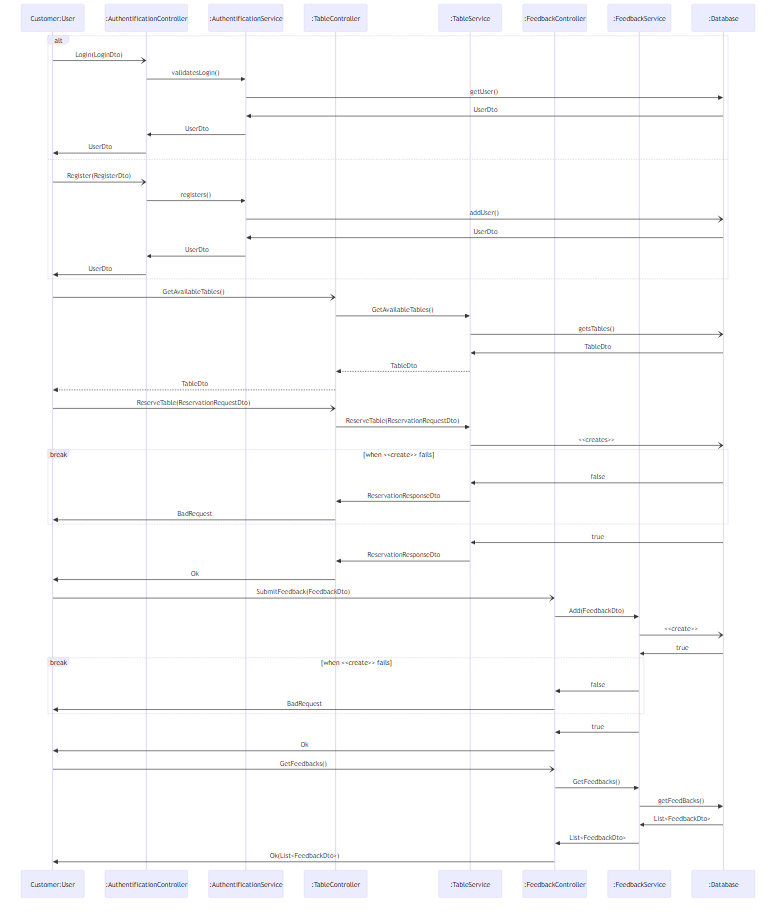
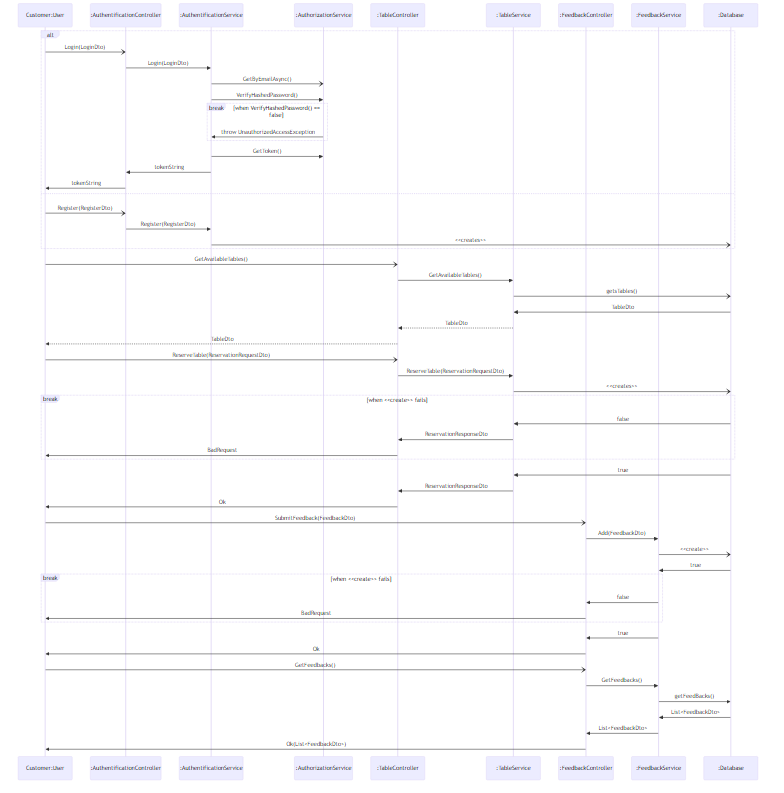
fixed diagram

diff --git a/reserv-plt/sequence_diagram_be.md b/reserv-plt/sequence_diagram_be.md
@@ -1,9 +1,10 @@
 ```mermaid
 
-sequenceDiagram
+    sequenceDiagram
     participant Customer as Customer:User
     participant AuthentificationController as :AuthentificationController
     participant AuthentificationService as :AuthentificationService
+    participant AuthorizationService as :AuthorizationService
     participant TableController as :TableController
     participant TableService as :TableService
     participant FeedbackController as :FeedbackController
@@ -14,22 +15,21 @@ sequenceDiagram
 
     alt
     Customer-)AuthentificationController: Login(LoginDto)
-    AuthentificationController ->> AuthentificationService: validatesLogin() 
-    AuthentificationService ->> Database: getUser()
-
-    Database ->> AuthentificationService: UserDto
-    AuthentificationService ->> AuthentificationController: UserDto
-    AuthentificationController ->> Customer: UserDto
+    AuthentificationController ->> AuthentificationService: Login(LoginDto) 
+    AuthentificationService -) AuthorizationService: GetByEmailAsync()
+    AuthentificationService ->> AuthorizationService: VerifyHashedPassword()
+    break when VerifyHashedPassword() == false
+        AuthorizationService ->> AuthentificationService: throw UnauthorizedAccessException
+    end
+    AuthentificationService ->> AuthorizationService: GetToken()
+    AuthentificationService ->> AuthentificationController: tokenString
+    AuthentificationController ->> Customer: tokenString
 
     else
 
     Customer -) AuthentificationController:  Register(RegisterDto)
-    AuthentificationController ->> AuthentificationService: registers()
-    AuthentificationService -) Database: addUser()
-
-    Database ->> AuthentificationService: UserDto
-    AuthentificationService ->> AuthentificationController: UserDto
-    AuthentificationController ->> Customer: UserDto
+    AuthentificationController ->> AuthentificationService: Register(RegisterDto)
+    AuthentificationService -) Database: <<creates>>
     
     end
     
@@ -70,20 +70,6 @@ sequenceDiagram
     Database ->> FeedbackService: List<FeedbackDto>
     FeedbackService ->> FeedbackController: List<FeedbackDto>
     FeedbackController ->> Customer: Ok(List<FeedbackDto>)
-
-    
-
-
-
-
-
-
-
-
-
-
-
-
 
 
 ```
